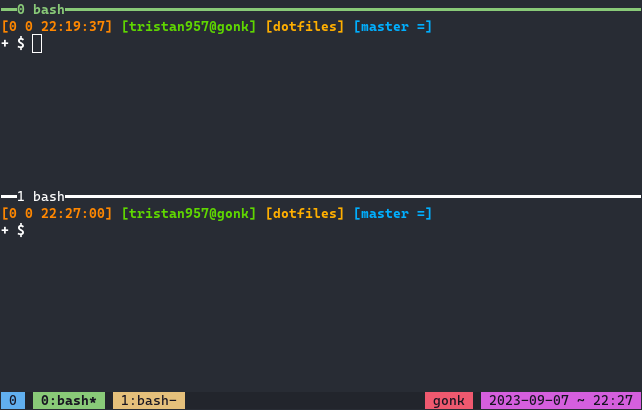
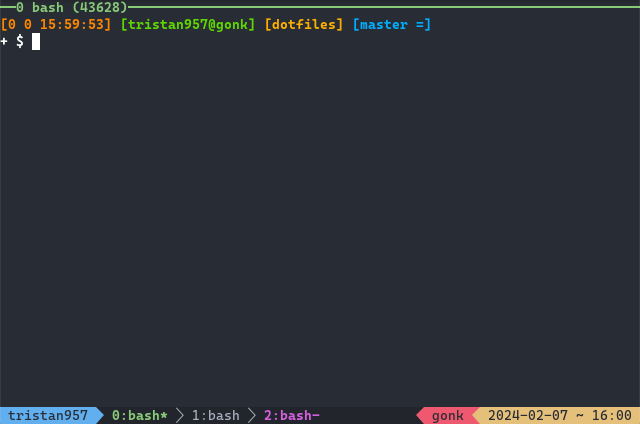
Update tmux style

diff --git a/README.md b/README.md
@@ -70,6 +70,9 @@ Statusline from left to right:
 
 - session
 - window list
+  - current window
+  - random window
+  - last window
 - hostname
 - date
 - 24-hr time
